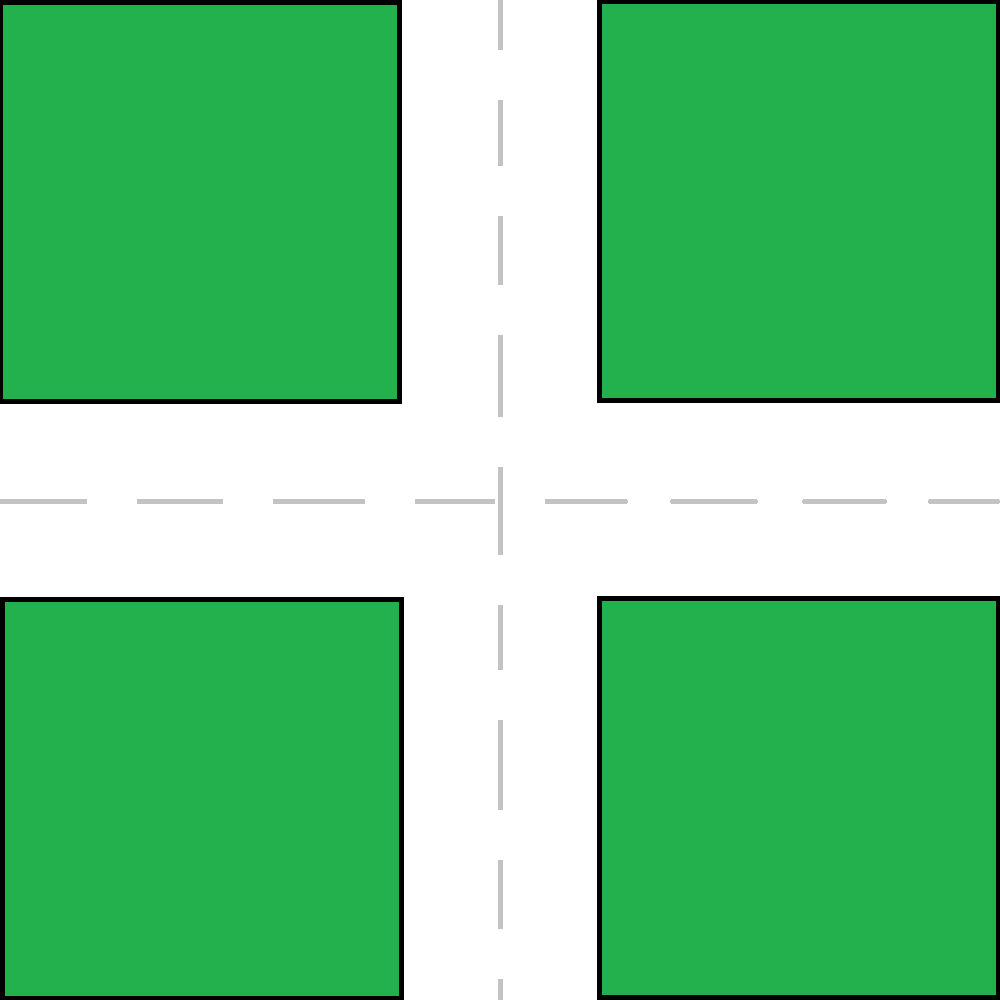
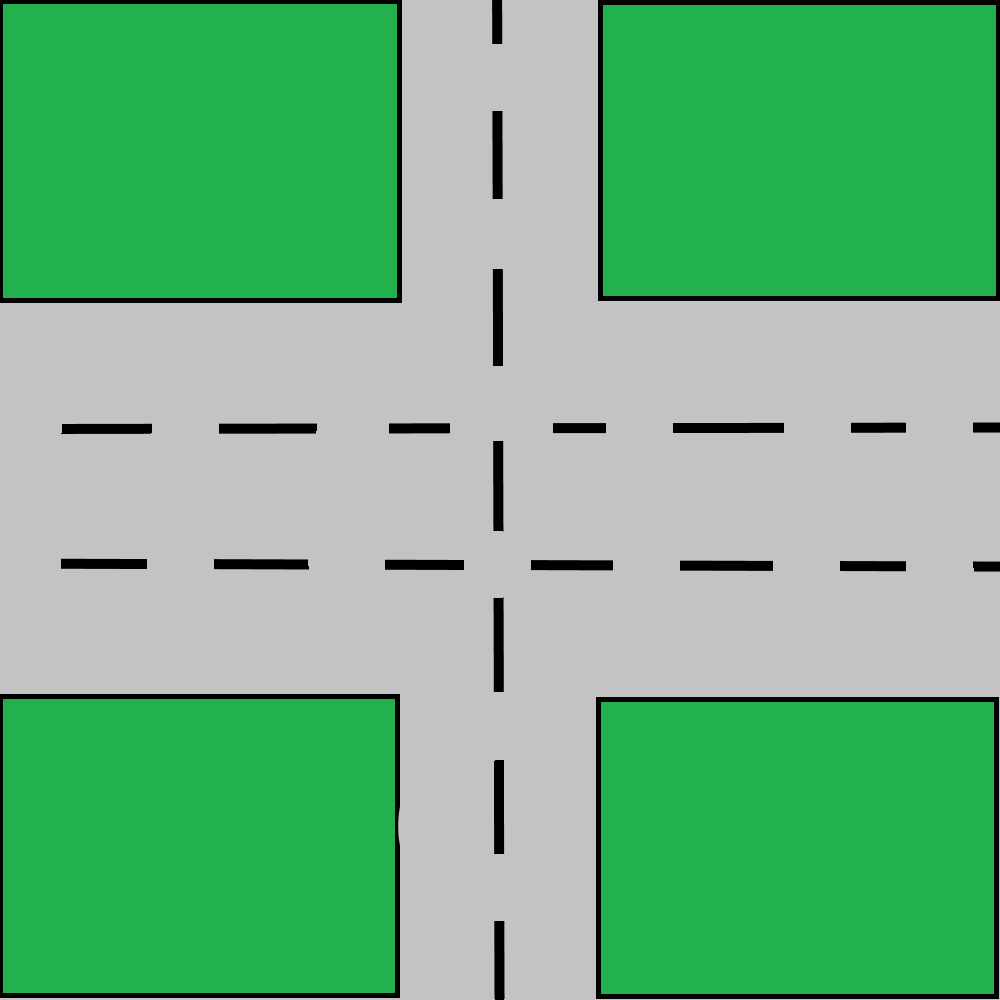
Aktualisierte version

diff --git a/Project2/Autos.cpp b/Project2/Autos.cpp
@@ -19,20 +19,20 @@ void Autos::initSprite()
     this->sprite.setOrigin(320, 640);
 }
 
+
+
 void Autos::beschleunigung()
 {
     this->speedp = speedp + 0.005;
     this->speedm = speedm - 0.005;
 }
 
-bool Autos::Ampel_green()
+void Autos::AntiCrash()
 {
-    if (ampel->Ampel_up()== true)
-        return true;
-    else
-        return false;
-   
+    
 }
+
+
 
 void Autos::bremsung()
 {
@@ -53,9 +53,11 @@ Autos::Autos(Direction spawn, Color color, Direction direction)
 {
     this->originalDirection = direction;
     switch (spawn) {
-    case Direction::WEST: this->sprite.setPosition(20.f, 550.f); direction = Direction::EAST; break;
+    case Direction::WEST: this->sprite.setPosition(20.f, 510.f); direction = Direction::EAST; abbiegen = true; break;
+    case Direction::WEST_E: this->sprite.setPosition(20.f, 640.f); direction = Direction::EAST; abbiegen = false; break;
     case Direction::NORTH: this->sprite.setPosition(450.f, 30.f); direction = Direction::SOUTH; break;
-    case Direction::EAST: this->sprite.setPosition(990.f, 450.f); direction = Direction::WEST; break;
+    case Direction::EAST: this->sprite.setPosition(990.f, 510.f); direction = Direction::WEST; abbiegen = true; break;
+    case Direction::EAST_W: this->sprite.setPosition(990.f, 350.f); direction = Direction::WEST; abbiegen = false; break;
     case Direction::SOUTH: this->sprite.setPosition(550.f, 970.f); direction = Direction::NORTH; break;
     }
 
@@ -65,6 +67,8 @@ Autos::Autos(Direction spawn, Color color, Direction direction)
     switch (direction) {
     case Direction::NORTH: this->sprite.setRotation(0.f); break;
     case Direction::EAST: this->sprite.setRotation(90.f); break;
+    case Direction::EAST_W: this->sprite.setRotation(90.f); break;
+    case Direction::WEST_E: this->sprite.setRotation(270.f); break;
     case Direction::SOUTH: this->sprite.setRotation(180.f); break;
     case Direction::WEST: this->sprite.setRotation(270.f); break;
     }
@@ -105,13 +109,13 @@ void Autos::update()
         if (sprite.getPosition().y >= 450 && sprite.getPosition().y <= 560)
         {
 
-            if (rndValue < 4 && Ampel_green() != false)
+            if (rndValue < 4)
             {
                 this->sprite.move(speedm, 0.f); //richtung westen
                 this->sprite.setRotation(-90.f);
 
             }
-            else if (rndValue >= 4 && rndValue < 8 && Ampel_green() != false)
+            else if (rndValue >= 4 && rndValue < 8 )
             {
                 if (sprite.getPosition().y >= 550)
                 {
@@ -120,7 +124,7 @@ void Autos::update()
                 }
                 else this->sprite.move(0.f, speedp);
             }
-            else if( Ampel_green() != false)
+            else 
             {
                 this->sprite.move(0.f, speedp);
             }
@@ -134,10 +138,11 @@ void Autos::update()
 
     case Direction::EAST: {
         this->beschleunigung();
-        if (sprite.getPosition().x >= 460 && sprite.getPosition().x <= 560)
+       
+        if (sprite.getPosition().x >= 460 && sprite.getPosition().x <= 560 && abbiegen == true)
         {
-
-            if (rndValue < 8 && Ampel_green() != false)
+            
+            if (rndValue < 8 )
             {
 
                 if (sprite.getPosition().x >= 550 )
@@ -147,31 +152,35 @@ void Autos::update()
                 }
                 else this->sprite.move(speedp, 0.f);
             }
-            else if (rndValue > 8 && Ampel_green() != false)
+            else if (rndValue >= 8 )
             {
                 this->sprite.move(0.f, speedp); //richtung s�den
                 this->sprite.setRotation(180.f);
             }
-            else if(Ampel_green() != false)
-            {
-                this->sprite.move(speedp, 0.f);
-            }
+            
         }
         else this->sprite.move(speedp, 0.f);
+        break;
+    }
+    case Direction::EAST_W: {
+
+        this->beschleunigung();
+        this->sprite.move(speedp, 0.f);
+        
         break;
     }
 
     case Direction::WEST: {
         this->beschleunigung();
-        if (sprite.getPosition().x <= 550 && sprite.getPosition().x >= 440)
+        if (sprite.getPosition().x <= 550 && sprite.getPosition().x >= 440 && abbiegen == true)
         {
 
-            if (rndValue < 9 && Ampel_green() != false)
+            if (rndValue < 9 )
             {
                 this->sprite.move(0.f, speedm); //richtung Norden
                 this->sprite.setRotation(0.f);
             }
-            else if (rndValue > 8 && Ampel_green() != false)
+            else if (rndValue > 8 )
             {
                 if (sprite.getPosition().x <= 450)
                 {
@@ -180,12 +189,14 @@ void Autos::update()
                 }
                 else this->sprite.move(speedm, 0.f);
             }
-            else if( Ampel_green() != false)
-            {
-                this->sprite.move(speedm, 0.f);
-            }
+            
         }
         else this->sprite.move(speedm, 0.f);
+        break;
+    }
+    case Direction::WEST_E: {
+        this->beschleunigung();
+        this->sprite.move(speedm, 0);
         break;
     }
     case Direction::NORTH: {
@@ -193,7 +204,7 @@ void Autos::update()
         if (sprite.getPosition().y <= 550)
         {
 
-            if (rndValue < 4 && Ampel_green() != false)
+            if (rndValue < 4 )
             {
                 if (sprite.getPosition().y <= 450)
                 {
@@ -202,12 +213,12 @@ void Autos::update()
                 }
                 else this->sprite.move(0.f, speedm);
             }
-            else if (rndValue >= 4 && rndValue < 8 && Ampel_green() != false)
+            else if (rndValue >= 4 && rndValue < 8 )
             {
                 this->sprite.move(speedp, 0.f); //richtung osten
                 this->sprite.setRotation(90.f);
             }
-            else if( Ampel_green() != false)
+            else 
             {
                 this->sprite.move(0.f, speedm);
             }

diff --git a/Project2/Simulation.cpp b/Project2/Simulation.cpp
@@ -113,9 +113,16 @@ void Simulation::updateAuto()
 		}
 		else { spawn = Direction::NOWHERE; }
 	}
-	else if (rndAnfahrt < 50) {
+	else if (rndAnfahrt < 36) {
 		if (Functions::checkSpawnEast(autos) == 0) {
 			spawn = Direction::EAST;
+			//std::cout << "spawn auf ost" << std::endl;
+		}
+		else { spawn = Direction::NOWHERE; }
+	}
+	else if (rndAnfahrt < 50) {
+		if (Functions::checkSpawnEast(autos) == 0) {
+			spawn = Direction::EAST_W;
 			//std::cout << "spawn auf ost" << std::endl;
 		}
 		else { spawn = Direction::NOWHERE; }
@@ -124,6 +131,13 @@ void Simulation::updateAuto()
 		if (Functions::checkSpawnSouth(autos) == 0) {
 			spawn = Direction::SOUTH;
 			//std::cout << "spawn auf sued" << std::endl;
+		}
+		else { spawn = Direction::NOWHERE; }
+	}
+	else if(rndAnfahrt < 79){
+		if (Functions::checkSpawnWest(autos) == 0) {
+			spawn = Direction::WEST_E;
+			//std::cout << "spawn auf west" << std::endl;
 		}
 		else { spawn = Direction::NOWHERE; }
 	}
@@ -223,9 +237,9 @@ void Simulation::update()
 	while (this->window2->pollEvent(u))
 	{
 		if (u.Event::type == sf::Event::Closed)
-			this->window->close();
+			this->window2->close();
 		if (u.Event::KeyPressed && u.Event::key.code == sf::Keyboard::Escape)
-			this->window->close();
+			this->window2->close();
 	}
 
 	for (auto* car : this->autos)
@@ -280,6 +294,16 @@ void Simulation::update()
 	// if (this->spawnTimer == 1000 || this->spawnTimer == 2000) {
 	// 	this->updateAmpel8();
 	// }
+}
+bool Simulation::Ampel_green()
+{
+	if (ampel->Ampel_up() != false)
+	{
+		return true;
+	}
+	else
+		return false;
+
 }
 
 void Simulation::render() {

diff --git a/Project2/Ampel.cpp b/Project2/Ampel.cpp
@@ -61,10 +61,10 @@ Ampel::Ampel(Ampel_Seite seite, Ampel_Farbe farbe)
 {
     //spawn: start direction, setposition: start coordinates, Direction: end direction
     switch (seite) {
-    case Ampel_Seite::OBEN:   this->sprite.setPosition(430.f, 410.f); break;
-    case Ampel_Seite::UNTEN: this->sprite.setPosition(570.f, 620.f); break;
-    case Ampel_Seite::RECHTS: this->sprite.setPosition(570.f, 410.f); break;
-    case Ampel_Seite::LINKS:  this->sprite.setPosition(430.f, 625.f); break;
+    case Ampel_Seite::OBEN:   this->sprite.setPosition(380.f, 280.f); break;
+    case Ampel_Seite::UNTEN: this->sprite.setPosition(620.f, 720.f); break;
+    case Ampel_Seite::RECHTS: this->sprite.setPosition(620.f, 280.f); break;
+    case Ampel_Seite::LINKS:  this->sprite.setPosition(380.f, 720.f); break;
     }
     this->color = farbe;
     this->ampel_up = true;

diff --git a/Project2/Autos.h b/Project2/Autos.h
@@ -5,6 +5,7 @@
 #include "CarProp.h"
 #include <math.h>
 #include "Ampel.h"
+
 #ifndef AUTOS
 #define AUTOS
 using namespace std;
@@ -18,6 +19,7 @@ private:
 	void initTexture(Color c);
 	void initSprite();
 	int rndValue = rand() % 10;
+	bool abbiegen;
 
 public:
 	sf::Sprite sprite;
@@ -25,7 +27,7 @@ public:
 	virtual ~Autos();
 	Direction currentDirection;
 	Direction originalDirection;
-	Ampel* ampel;
+	
 	//bool const stopWO;
 	const sf::Vector2f getPos() const;
 	const bool checkIfInFront() const;
@@ -35,8 +37,9 @@ public:
 	float speedm = -0.005;
 	void bremsung();
 	void beschleunigung();
+	void AntiCrash();
 
-	bool Ampel_green();
+	
 
 	void update();
 	void render(sf::RenderTarget& target);

diff --git a/Project2/Simulation.h b/Project2/Simulation.h
@@ -19,11 +19,13 @@ private:
 
 	//Autos im kreisverkehr
 	std::vector<AutosO*> autoso;
+	Ampel* ampel;
 	//Hintergrund
 	sf::Texture KreuzverkehrTex;
 	sf::Sprite Kreuzverkehr;
 	sf::Texture KreisverkehrTex;
 	sf::Sprite Kreisverkehr;
+
 
 	bool checkDistance(Autos obj_1, Autos obj_2);
 	void initWindow();
@@ -41,6 +43,7 @@ public:
 	void updateAllAmpel();
 	void updateAuto();
 	void updateAmpel(int index);
+	bool Ampel_green();
 	void update();
 	void render();
 	void createAmpel();

diff --git a/Project2/Ampel.h b/Project2/Ampel.h
@@ -14,7 +14,8 @@ private:
 
 	void initTexture(Ampel_Farbe f);
 	void initSprite();
-
+	bool ampel_up;
+	
 
 public:
 	Ampel(Ampel_Seite seite, Ampel_Farbe ampel_farbe);
@@ -25,7 +26,7 @@ public:
 	sf::Time elapsed1 = clock.getElapsedTime();
 	void initClock();
 
-	bool ampel_up;
+	
 	bool Ampel_up();
 	
 	void render(sf::RenderTarget& target);

diff --git a/Project2/CarProp.h b/Project2/CarProp.h
@@ -2,7 +2,7 @@
 #include <math.h>
 
 enum class Direction {
-	NORTH, EAST, SOUTH, WEST, NOWHERE
+	NORTH, EAST, EAST_W, SOUTH, WEST,WEST_E,  NOWHERE
 };
 
 enum class Color {
